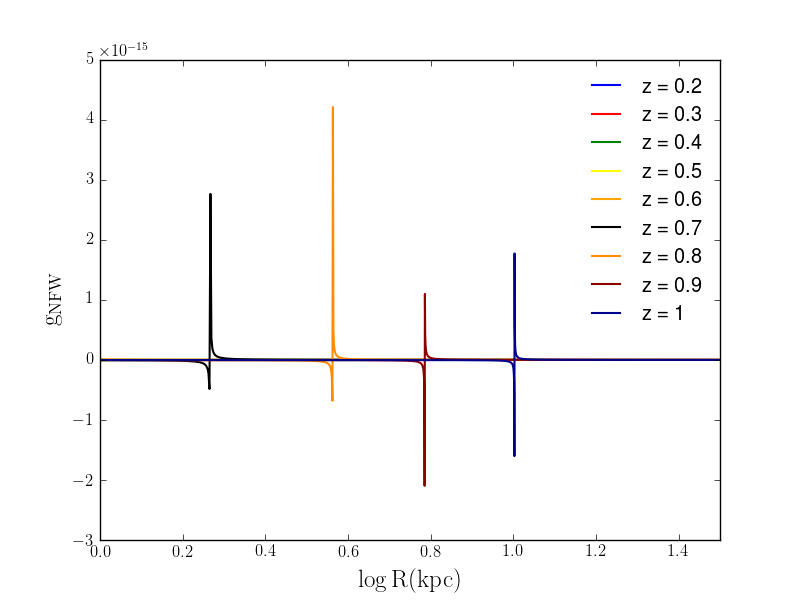
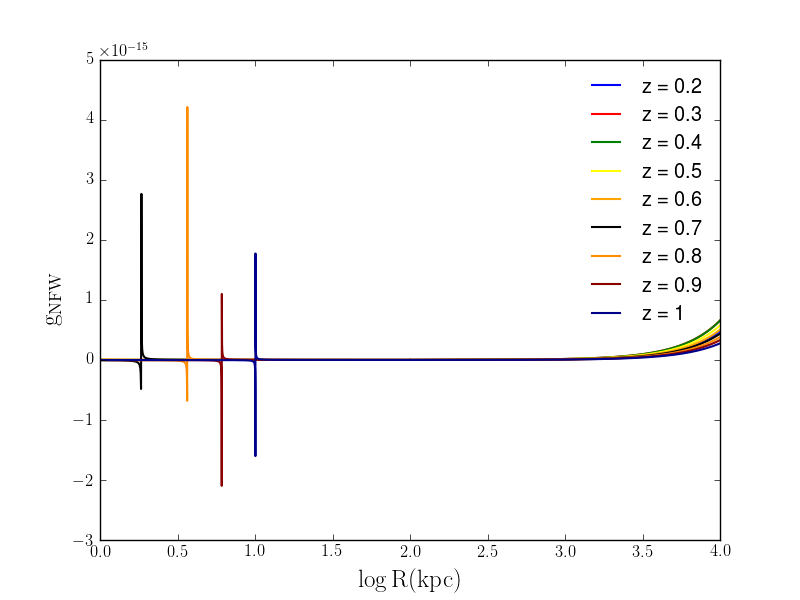
update

diff --git a/plots/Surface_density_log_r025.py b/plots/Surface_density_log_r025.py
@@ -55,30 +55,3 @@ plt.xlabel(r'$\mathrm{R^{1/4}(kpc)}$',fontsize=18)
 plt.savefig("Surface_mass_density_log.png")
 plt.show() 
 
-"""
-# Create some test data
-secret_data_X1 = np.linspace(0,1,100)
-secret_data_Y1 = secret_data_X1**2
-secret_data_X2 = np.linspace(1,2,100)
-secret_data_Y2 = secret_data_X2**2
-
-# Show the secret data
-plt.subplot(121)
-plt.plot(secret_data_X1,secret_data_Y1,'r')
-plt.plot(secret_data_X2,secret_data_Y2,'b')
-
-# Loop through the plots created and find the x,y values
-X,Y = [], []   
-for lines in plt.gca().get_lines():
-    for x,y in lines.get_xydata():
-        X.append(x)
-        Y.append(y)
-
-idx = np.argsort(X)
-X = np.array(X)[idx]
-Y = np.array(Y)[idx]
-
-plt.subplot(122)
-plt.plot(X,Y,'g')
-plt.show()
-"""

diff --git a/plots/magnification.py b/plots/magnification.py
@@ -42,6 +42,7 @@ for i in range(len(sigmas)):
 				   np.arctan( np.sqrt( ( (r/r_s)-1.0 )/( 1+(r/r_s) ) ) ) ))
 	plt.plot(np.log10(r), 1./((1.-(sigma_3/sigmas[i]))**2.-(gamma_3)**2.) , label= redshifts[i], c=colors[i], lw=1.5)
 
+plt.ylim(-1000,1000)
 #plt.axhline(y=.5, xmin=0., xmax=10.,linewidth=1, color = 'k', linestyle='--')
 plt.xlabel(r'$\mathrm{\log R(kpc)}$', fontsize=18) 
 plt.ylabel('$\mathrm{\mu_{NFW}}$', fontsize=18)

diff --git a/plots/shear vs radius.py b/plots/shear vs radius.py
@@ -32,7 +32,6 @@ for i in range(len(sigmas)):
 				   ((4*(np.log((r/r_s)/2.)))/((r/r_s)**2)) - (2./((r/r_s)**2-1.)) + ((4*np.arctan(np.sqrt(((r/r_s)-1)/(1+(r/r_s)))))/(((r/r_s)**2-1)**1.5))))\
 				   ,label= redshifts[i], c=colors[i], lw=1.5)
 
-
 #plt.axhline(y=.5, xmin=0., xmax=10.,linewidth=1, color = 'k', linestyle='--')
 #plt.ylim(0,0.05)
 plt.xlabel(r'$\mathrm{\log R(kpc)}$', fontsize=18) 

diff --git a/plots/Reduced_shear.py b/plots/Reduced_shear.py
@@ -38,7 +38,7 @@ for i in range(len(sigmas)):
 
 
 #plt.axhline(y=.5, xmin=0., xmax=10.,linewidth=1, color = 'k', linestyle='--')
-plt.xlim(0,1.5)
+#plt.xlim(0,1.5)
 plt.xlabel(r'$\mathrm{\log R(kpc)}$', fontsize=18) 
 plt.ylabel('$\mathrm{g_{NFW}}$', fontsize=18)
 #plt.title(r'$\mathrm{Reduced\:Shear}$', fontsize=20)
